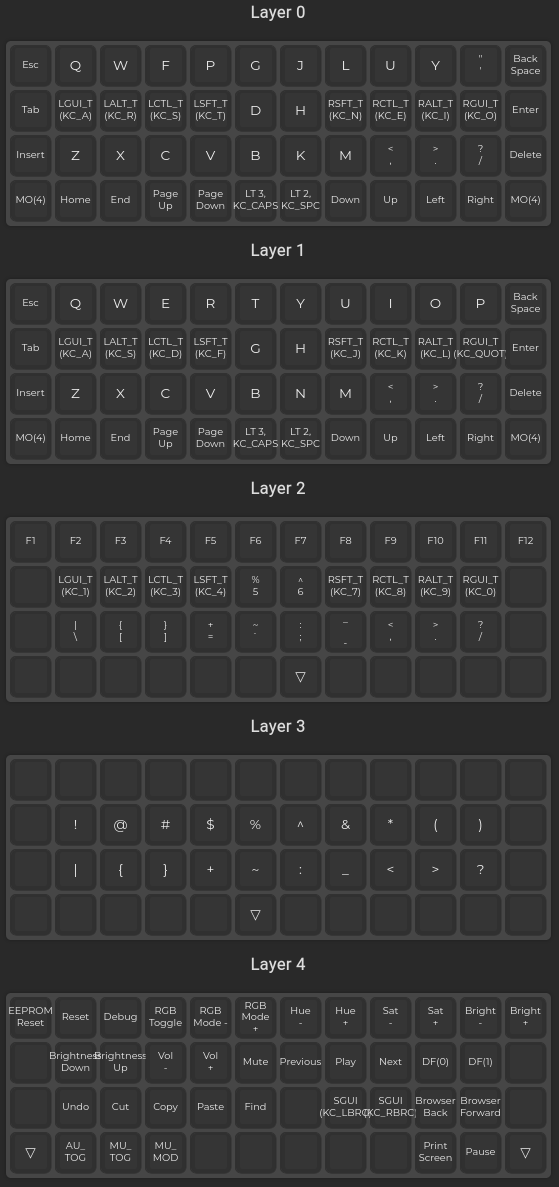
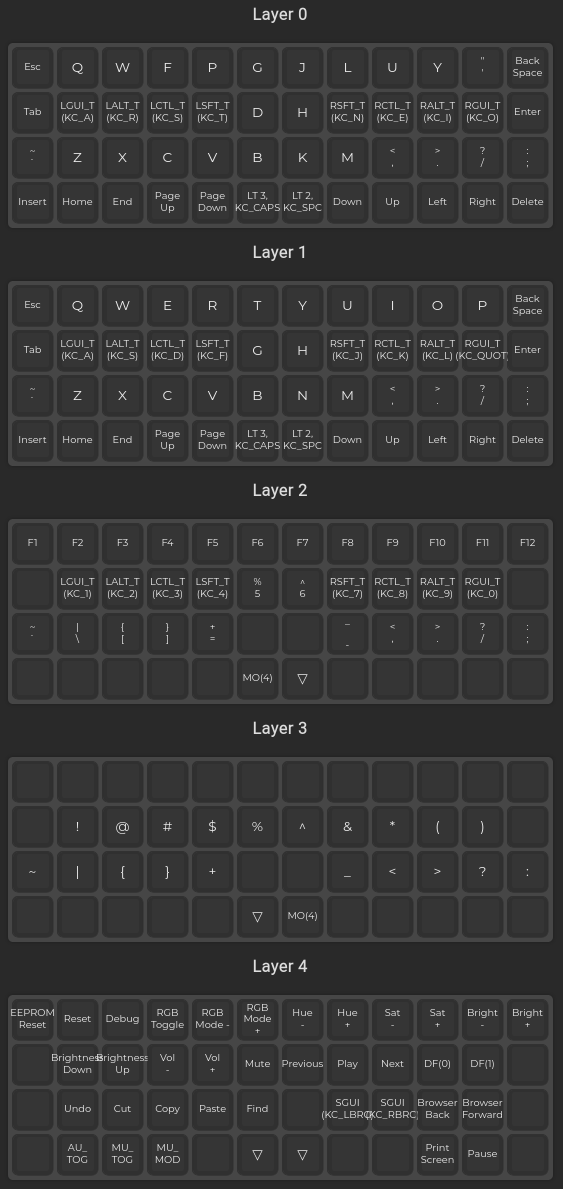
Pull backtick and colon back into base

diff --git a/keymap.c b/keymap.c
@@ -7,9 +7,9 @@
  */
 
 const uint16_t PROGMEM keymaps[][MATRIX_ROWS][MATRIX_COLS] = {
-	[0] = LAYOUT_ortho_4x12(KC_ESC, KC_Q, KC_W, KC_F, KC_P, KC_G, KC_J, KC_L, KC_U, KC_Y, KC_QUOT, KC_BSPC, KC_TAB, LGUI_T(KC_A), LALT_T(KC_R), LCTL_T(KC_S), LSFT_T(KC_T), KC_D, KC_H, RSFT_T(KC_N), RCTL_T(KC_E), RALT_T(KC_I), RGUI_T(KC_O), KC_ENT, KC_INS, KC_Z, KC_X, KC_C, KC_V, KC_B, KC_K, KC_M, KC_COMM, KC_DOT, KC_SLSH, KC_DEL, MO(4), KC_HOME, KC_END, KC_PGUP, KC_PGDN, LT(3,KC_CAPS), LT(2,KC_SPC), KC_DOWN, KC_UP, KC_LEFT, KC_RGHT, MO(4)),
-	[1] = LAYOUT_ortho_4x12(KC_ESC, KC_Q, KC_W, KC_E, KC_R, KC_T, KC_Y, KC_U, KC_I, KC_O, KC_P, KC_BSPC, KC_TAB, LGUI_T(KC_A), LALT_T(KC_S), LCTL_T(KC_D), LSFT_T(KC_F), KC_G, KC_H, RSFT_T(KC_J), RCTL_T(KC_K), RALT_T(KC_L), RGUI_T(KC_QUOT), KC_ENT, KC_INS, KC_Z, KC_X, KC_C, KC_V, KC_B, KC_N, KC_M, KC_COMM, KC_DOT, KC_SLSH, KC_DEL, MO(4), KC_HOME, KC_END, KC_PGUP, KC_PGDN, LT(3,KC_CAPS), LT(2,KC_SPC), KC_DOWN, KC_UP, KC_LEFT, KC_RGHT, MO(4)),
-	[2] = LAYOUT_ortho_4x12(KC_F1, KC_F2, KC_F3, KC_F4, KC_F5, KC_F6, KC_F7, KC_F8, KC_F9, KC_F10, KC_F11, KC_F12, KC_NO, LGUI_T(KC_1), LALT_T(KC_2), LCTL_T(KC_3), LSFT_T(KC_4), KC_5, KC_6, RSFT_T(KC_7), RCTL_T(KC_8), RALT_T(KC_9), RGUI_T(KC_0), KC_NO, KC_NO, KC_BSLS, KC_LBRC, KC_RBRC, KC_EQL, KC_GRV, KC_SCLN, KC_MINS, KC_COMM, KC_DOT, KC_SLSH, KC_NO, KC_NO, KC_NO, KC_NO, KC_NO, KC_NO, KC_NO, KC_TRNS, KC_NO, KC_NO, KC_NO, KC_NO, KC_NO),
-	[3] = LAYOUT_ortho_4x12(KC_NO, KC_NO, KC_NO, KC_NO, KC_NO, KC_NO, KC_NO, KC_NO, KC_NO, KC_NO, KC_NO, KC_NO, KC_NO, KC_EXLM, KC_AT, KC_HASH, KC_DLR, KC_PERC, KC_CIRC, KC_AMPR, KC_ASTR, KC_LPRN, KC_RPRN, KC_NO, KC_NO, KC_PIPE, KC_LCBR, KC_RCBR, KC_PLUS, KC_TILD, KC_COLN, KC_UNDS, KC_LT, KC_GT, KC_QUES, KC_NO, KC_NO, KC_NO, KC_NO, KC_NO, KC_NO, KC_TRNS, KC_NO, KC_NO, KC_NO, KC_NO, KC_NO, KC_NO),
-	[4] = LAYOUT_ortho_4x12(EEP_RST, RESET, DEBUG, RGB_TOG, RGB_RMOD, RGB_MOD, RGB_HUD, RGB_HUI, RGB_SAD, RGB_SAI, RGB_VAD, RGB_VAI, KC_NO, KC_BRID, KC_BRIU, KC_VOLD, KC_VOLU, KC_MUTE, KC_MPRV, KC_MPLY, KC_MNXT, DF(0), DF(1), KC_NO, KC_NO, KC_UNDO, KC_CUT, KC_COPY, KC_PSTE, KC_FIND, KC_NO, SGUI(KC_LBRC), SGUI(KC_RBRC), KC_WBAK, KC_WFWD, KC_NO, KC_TRNS, AU_TOG, MU_TOG, MU_MOD, KC_NO, KC_NO, KC_NO, KC_NO, KC_NO, KC_PSCR, KC_PAUS, KC_TRNS)
+	[0] = LAYOUT_ortho_4x12(KC_ESC, KC_Q, KC_W, KC_F, KC_P, KC_G, KC_J, KC_L, KC_U, KC_Y, KC_QUOT, KC_BSPC, KC_TAB, LGUI_T(KC_A), LALT_T(KC_R), LCTL_T(KC_S), LSFT_T(KC_T), KC_D, KC_H, RSFT_T(KC_N), RCTL_T(KC_E), RALT_T(KC_I), RGUI_T(KC_O), KC_ENT, KC_GRV, KC_Z, KC_X, KC_C, KC_V, KC_B, KC_K, KC_M, KC_COMM, KC_DOT, KC_SLSH, KC_SCLN, KC_INS, KC_HOME, KC_END, KC_PGUP, KC_PGDN, LT(3,KC_CAPS), LT(2,KC_SPC), KC_DOWN, KC_UP, KC_LEFT, KC_RGHT, KC_DEL),
+	[1] = LAYOUT_ortho_4x12(KC_ESC, KC_Q, KC_W, KC_E, KC_R, KC_T, KC_Y, KC_U, KC_I, KC_O, KC_P, KC_BSPC, KC_TAB, LGUI_T(KC_A), LALT_T(KC_S), LCTL_T(KC_D), LSFT_T(KC_F), KC_G, KC_H, RSFT_T(KC_J), RCTL_T(KC_K), RALT_T(KC_L), RGUI_T(KC_QUOT), KC_ENT, KC_GRV, KC_Z, KC_X, KC_C, KC_V, KC_B, KC_N, KC_M, KC_COMM, KC_DOT, KC_SLSH, KC_SCLN, KC_INS, KC_HOME, KC_END, KC_PGUP, KC_PGDN, LT(3,KC_CAPS), LT(2,KC_SPC), KC_DOWN, KC_UP, KC_LEFT, KC_RGHT, KC_DEL),
+	[2] = LAYOUT_ortho_4x12(KC_F1, KC_F2, KC_F3, KC_F4, KC_F5, KC_F6, KC_F7, KC_F8, KC_F9, KC_F10, KC_F11, KC_F12, KC_NO, LGUI_T(KC_1), LALT_T(KC_2), LCTL_T(KC_3), LSFT_T(KC_4), KC_5, KC_6, RSFT_T(KC_7), RCTL_T(KC_8), RALT_T(KC_9), RGUI_T(KC_0), KC_NO, KC_GRV, KC_BSLS, KC_LBRC, KC_RBRC, KC_EQL, KC_NO, KC_NO, KC_MINS, KC_COMM, KC_DOT, KC_SLSH, KC_SCLN, KC_NO, KC_NO, KC_NO, KC_NO, KC_NO, MO(4), KC_TRNS, KC_NO, KC_NO, KC_NO, KC_NO, KC_NO),
+	[3] = LAYOUT_ortho_4x12(KC_NO, KC_NO, KC_NO, KC_NO, KC_NO, KC_NO, KC_NO, KC_NO, KC_NO, KC_NO, KC_NO, KC_NO, KC_NO, KC_EXLM, KC_AT, KC_HASH, KC_DLR, KC_PERC, KC_CIRC, KC_AMPR, KC_ASTR, KC_LPRN, KC_RPRN, KC_NO, KC_TILD, KC_PIPE, KC_LCBR, KC_RCBR, KC_PLUS, KC_NO, KC_NO, KC_UNDS, KC_LT, KC_GT, KC_QUES, KC_COLN, KC_NO, KC_NO, KC_NO, KC_NO, KC_NO, KC_TRNS, MO(4), KC_NO, KC_NO, KC_NO, KC_NO, KC_NO),
+	[4] = LAYOUT_ortho_4x12(EEP_RST, RESET, DEBUG, RGB_TOG, RGB_RMOD, RGB_MOD, RGB_HUD, RGB_HUI, RGB_SAD, RGB_SAI, RGB_VAD, RGB_VAI, KC_NO, KC_BRID, KC_BRIU, KC_VOLD, KC_VOLU, KC_MUTE, KC_MPRV, KC_MPLY, KC_MNXT, DF(0), DF(1), KC_NO, KC_NO, KC_UNDO, KC_CUT, KC_COPY, KC_PSTE, KC_FIND, KC_NO, SGUI(KC_LBRC), SGUI(KC_RBRC), KC_WBAK, KC_WFWD, KC_NO, KC_NO, AU_TOG, MU_TOG, MU_MOD, KC_NO, KC_TRNS, KC_TRNS, KC_NO, KC_NO, KC_PSCR, KC_PAUS, KC_NO)
 };
